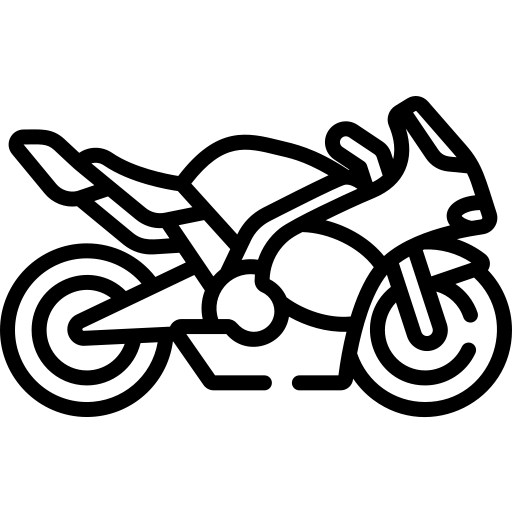
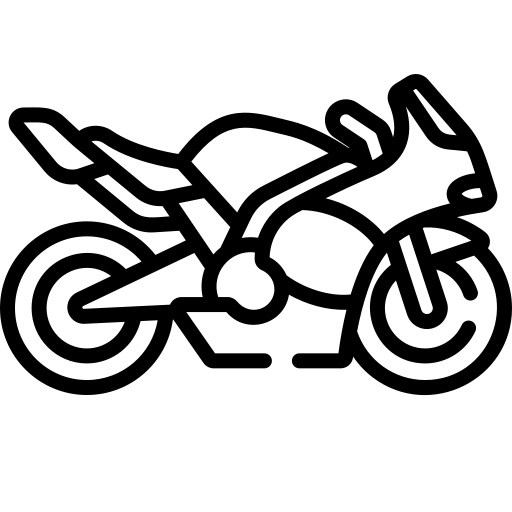
kaart layout bijna klaar

diff --git a/css/style.css b/css/style.css
@@ -32,6 +32,7 @@ section.icon > p {
     text-align: center;
     border-top: black 0.1em solid;
     border-bottom: black 0.1em solid;
+    margin: 0;
 
 }
 .midden > img {
@@ -46,7 +47,7 @@ section.icon > p {
 .icononder {
     transform: rotate(180deg);
     position: relative;
-    top: 56em;
+    top: 47.5em;
     right:3em;
     background-color: white;
 }
